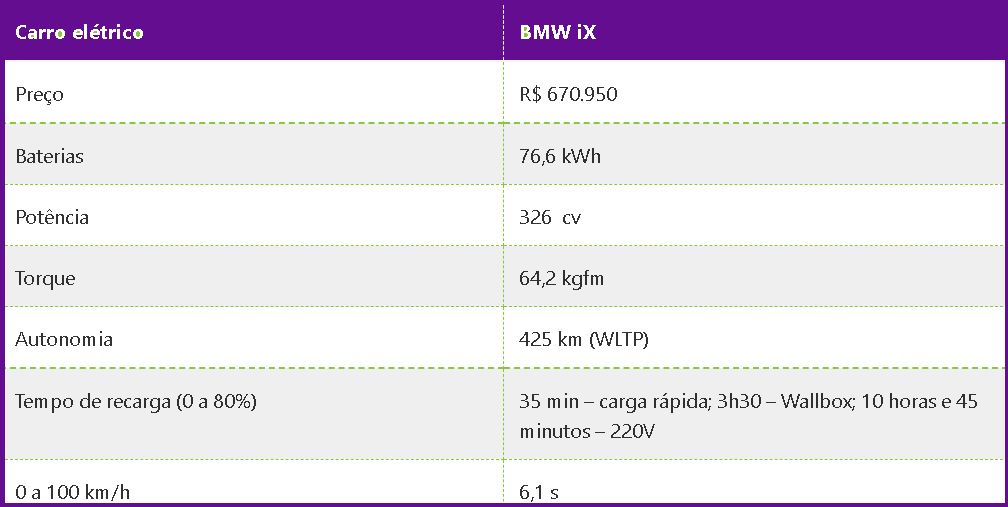
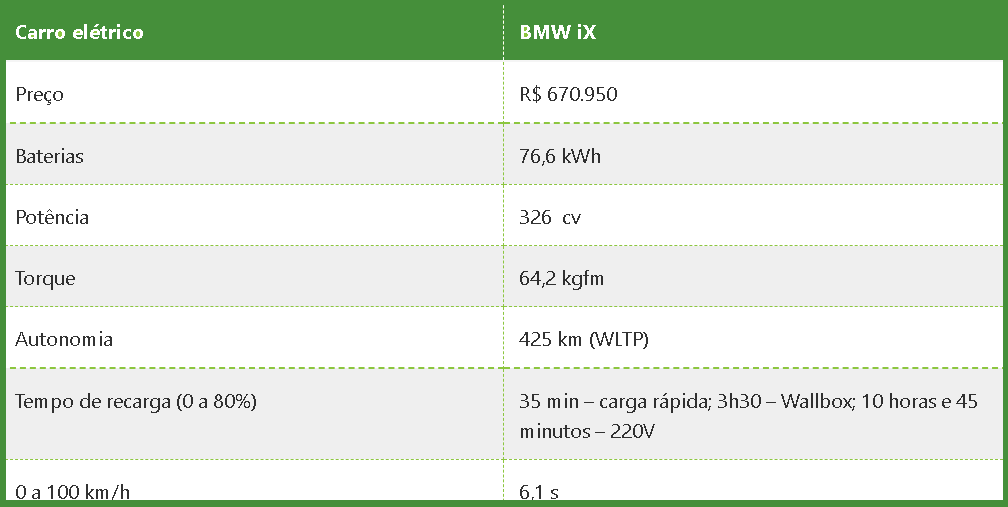
refector: detalhes de validacao e componentes, style: acrescentado estilos nas paginas de conta e card, e ajustes nas demais classes.

Changed region(s): [[0.0, 0.0, 1.0, 1.0]]

diff --git a/front-end/potatocars/src/styles/GlobalVariablesScss.scss b/front-end/potatocars/src/styles/GlobalVariablesScss.scss
@@ -2,27 +2,27 @@
 $font-normal: 'Ubuntu', sans-serif;
 $font-bold: 'Ubuntu', sans-serif;
 
-//Cores
-$text-color-one: #fcf4eb;
-$text-color-two: #ad5e2d;
-$text-color-three: #cfaf6b;
+// //Cores
+// $text-color-one: #fcf4eb;
+// $text-color-two: #ad5e2d;
+// $text-color-three: #cfaf6b;
 
-$border-color-zero: none;
-$border-color-one: 1px solid #fff;
-$border-color-two: 1px solid #795e3d;
-$border-color-three: 1px solid #79563d;
-$border-one-side: #ac7243 4px groove;
-$border-box-shadow-one: 2px 2px 3px #f5cba1;
+// $border-color-zero: none;
+// $border-color-one: 1px solid #fff;
+// $border-color-two: 1px solid #795e3d;
+// $border-color-three: 1px solid #79563d;
+// $border-one-side: #ac7243 4px groove;
+// $border-box-shadow-one: 2px 2px 3px #f5cba1;
 
-$color-one: #b86d22;
-$color-two: #411c03;
-$color-three: #d78258;
+// $color-one: #b86d22;
+// $color-two: #411c03;
+// $color-three: #d78258;
 
-$background-zero: black;
-$background-one: #663610;
-$background-three: #8b5930;
-$background-four: rgb(72, 72, 72);
-$background-five: #f5efe4;
+// $background-zero: black;
+// $background-one: #663610;
+// $background-three: #8b5930;
+// $background-four: rgb(72, 72, 72);
+// $background-five: #f5efe4;
 
 // //Cores
 // $text-color-one: #fcf4eb;
@@ -47,27 +47,27 @@ $background-five: #f5efe4;
 // $background-five: #f5efe4;
 
 //////////////////////////////////////////////////////////////////////////////////////////
-// //Cores
-// $text-color-one: #ebfceb;
-// $text-color-two: #49793d;
-// $text-color-three: #7fcf6b;
+//Cores
+$text-color-one: #ebfceb;
+$text-color-two: rgb(73, 121, 61);
+$text-color-three: #7fcf6b;
 
-// $border-color-zero: none;
-// $border-color-one: 1px solid #fff;
-// $border-color-two: 1px solid #49793d;
-// $border-color-three: 1px solid #49793d;
-// $border-one-side: #58ac43 4px groove;
-// $border-box-shadow-one: 2px 2px 3px #b2f5a1;
+$border-color-zero: none;
+$border-color-one: 1px solid #fff;
+$border-color-two: 1px solid #49793d;
+$border-color-three: 1px solid #49793d;
+$border-one-side: #58ac43 4px groove;
+$border-box-shadow-one: 2px 2px 3px #b2f5a1;
 
-// $color-one: #22b825;
-// $color-two: #084103;
-// $color-three: #16640f;
+$color-one: #22b825;
+$color-two: #084103;
+$color-three: rgb(22, 100, 15);
 
-// $background-zero: black;
-// $background-one: #c5e3c4;
-// $background-three: #49793d;
-// $background-four: rgb(72, 72, 72);
-// $background-five: #e5f5e4;
+$background-zero: black;
+$background-one: #c5e3c4;
+$background-three: #49793d;
+$background-four: rgb(72, 72, 72);
+$background-five: rgb(229, 245, 228);
 
 //////////////////////////////////////////////////////////////////////////////////////////
 // //Cores

diff --git a/front-end/potatocars/src/components/Footer/index.jsx b/front-end/potatocars/src/components/Footer/index.jsx
@@ -1,6 +1,6 @@
 import React from 'react'
 import styles from './Footer.module.scss'
-import footerCopyRight from '../../assets/footerCopyRight.svg'
+import footerCopyRight from '../../assets/copyright.png'
 import logoFacebook from '../../assets/logoFacebook.svg'
 import logoLinkedin from '../../assets/logoLinkedin.svg'
 import logoTwitter from '../../assets/logoTwitter.svg'
@@ -10,11 +10,15 @@ import { Link } from 'react-router-dom'
 export default function Footer() {
   return (
     <div className={styles.footer}>
-      <img
-        src={footerCopyRight}
-        alt="Mensagem CopyRigh"
-        className={styles.footer__img}
-      />
+      <div className={styles.footer__copyright}>
+        <img
+          src={footerCopyRight}
+          alt="Mensagem CopyRigh"
+          className={styles.footer__copyright__img}
+        />
+        <span>2023 NotCars</span>
+      </div>
+
       <div className={styles.footer__socialMedias}>
         <Link to="https://web.facebook.com" target="_blank">
           <img src={logoFacebook} alt="Logo FaceBook" />

diff --git a/front-end/potatocars/src/pages/AccountUser.jsx b/front-end/potatocars/src/pages/AccountUser.jsx
@@ -1,23 +1,15 @@
 import React from 'react'
 import Navbar from '../components/Navbar'
 import Footer from '../components/Footer'
+import AccUser from '../components/AccUser'
 import styles from './AccountUser.module.scss'
-import imgAvatar from '../assets/imgAvatar.png'
-import useAuth from '../hooks/useAuth'
 
 export default function AccountUser() {
-  const { user } = useAuth()
   return (
     <div className={styles.appAccountUser}>
       <div className={styles.bodyAccountUser}>
         <Navbar />
-        <main className={styles.main}>
-          <p>LOCAL DESTINADO A PAGINA PADRAO DO USUARIO</p>
-          <img src={imgAvatar} alt="imagem Avatar" />
-          <p>Email:{user.email}</p>
-          <p>Password:{user.password}</p>
-          <p>Name:{user.name}</p>
-        </main>
+        <AccUser />
         <Footer />
       </div>
     </div>

diff --git a/front-end/potatocars/src/components/AccUser/index.jsx b/front-end/potatocars/src/components/AccUser/index.jsx
@@ -1,0 +1,17 @@
+import React from 'react'
+import styles from './AccUser.module.scss'
+import imgAvatar from '../../assets/avatar.jpg'
+import useAuth from '../../hooks/useAuth'
+
+export default function AccUser() {
+  const { user } = useAuth()
+  return (
+    <main className={styles.main}>
+      <p>LOCAL DESTINADO A PAGINA PADRAO DO USUARIO</p>
+      <img src={imgAvatar} alt="imagem Avatar" />
+      <p>Email: {user.email}</p>
+      <p>Password: {user.password}</p>
+      <p>Name: {user.name}</p>
+    </main>
+  )
+}

diff --git a/front-end/potatocars/src/components/Footer/Footer.module.scss b/front-end/potatocars/src/components/Footer/Footer.module.scss
@@ -17,10 +17,30 @@
   gap: 2rem;
   z-index: 1;
 
-  &__img {
+  &__copyright {
+
+    font-family: $font-bold;
+    font-weight: 700;
+    font-size: 0.85rem;
     display: flex;
-    margin-left: 2rem;
+    flex-direction: row;
+    gap: 0.25rem;
+    align-items: center;
+    justify-content: center;
+
+    &__img {
+
+      margin-left: 2rem;
+      width: 20px;
+      height: 20px;
+    }
+
+    span {
+      color: #16640f;
+    }
   }
+
+
 
   &__socialMedias {
     display: flex;

diff --git a/front-end/potatocars/src/pages/Product.module.scss b/front-end/potatocars/src/pages/Product.module.scss
@@ -1,8 +1,10 @@
+@import "../styles/GlobalVariablesScss.scss";
+
 .appProduct {
   width: 100%;
 
   .bodyProduct {
-    background: rgb(225, 224, 225);
+    background: $background-five;
   }
 
   main {
@@ -14,7 +16,9 @@
 
     img {
       width: 45%;
-      height: 500px;
+      height: 450px;
+      border: 4px groove rgb(53, 166, 38);
+      border-radius: 0.5rem;
     }
   }
 }

diff --git a/front-end/potatocars/src/components/AccUser/AccUser.module.scss b/front-end/potatocars/src/components/AccUser/AccUser.module.scss
@@ -1,0 +1,20 @@
+@import "../../styles/GlobalVariablesScss.scss";
+
+.main {
+  background-color: $background-five;
+  height: 80vh;
+  display: flex;
+  flex-direction: column;
+  align-items: center;
+  color: $color-two;
+  font-size: 1.25rem;
+  font-family: $font-bold;
+  font-weight: 700;
+  text-transform: uppercase;
+
+  img {
+    width: 150px;
+    height: 150px;
+  }
+
+}

diff --git a/front-end/potatocars/src/components/Navbar/Navbar.module.scss b/front-end/potatocars/src/components/Navbar/Navbar.module.scss
@@ -100,7 +100,7 @@
       span {
         width: 170px;
         height: 70px;
-        background-image: url('https://cdn.discordapp.com/attachments/1074829594563190905/1079923680882200657/logo2x_new.png');
+        background-image: url('../../assets/ourLogo.png');
         background-repeat: no-repeat;
         background-size: contain;
         background-position: center;

diff --git a/front-end/potatocars/src/components/Recomendations/index.jsx b/front-end/potatocars/src/components/Recomendations/index.jsx
@@ -51,7 +51,7 @@ export default function Recomendations() {
       title: 'Fiat 500e',
       location: 'Valadares do Oeste',
       description: 'R$ 49,00 / dia',
-      rated: '4.4'
+      rated: '4.5'
     }
   ])
 

diff --git a/front-end/potatocars/src/pages/AccountUser.module.scss b/front-end/potatocars/src/pages/AccountUser.module.scss
@@ -3,14 +3,5 @@
 
   .bodyAccountUser {
     background: rgb(225, 224, 225);
-
-
-
-    .main {
-      height: 80vh;
-      display: flex;
-      flex-direction: column;
-      align-items: center;
-    }
   }
 }

diff --git a/front-end/potatocars/src/components/RegisterValidation/styles.js b/front-end/potatocars/src/components/RegisterValidation/styles.js
@@ -2,7 +2,7 @@ import styled from 'styled-components'
 
 export const labelError = styled.label`
   margin: 0;
-  margin-bottom: 2rem;
+  margin-bottom: 1rem;
   padding: 0;
   border: 0;
   font-size: 14px;

diff --git a/front-end/potatocars/src/components/CardRecomendations/CardRecomendations.module.scss b/front-end/potatocars/src/components/CardRecomendations/CardRecomendations.module.scss
@@ -114,8 +114,7 @@
 
 
     img {
-      width: 100%;
-      height: 250px;
+
       pointer-events: none;
       border-radius: 1rem;
       border-top-right-radius: 0;
